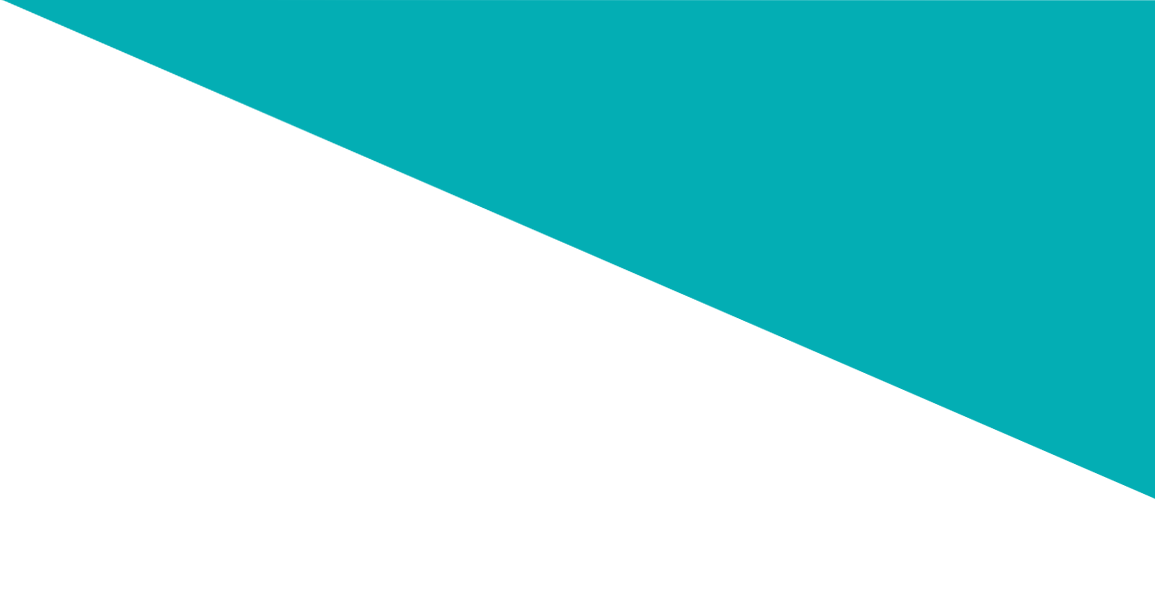
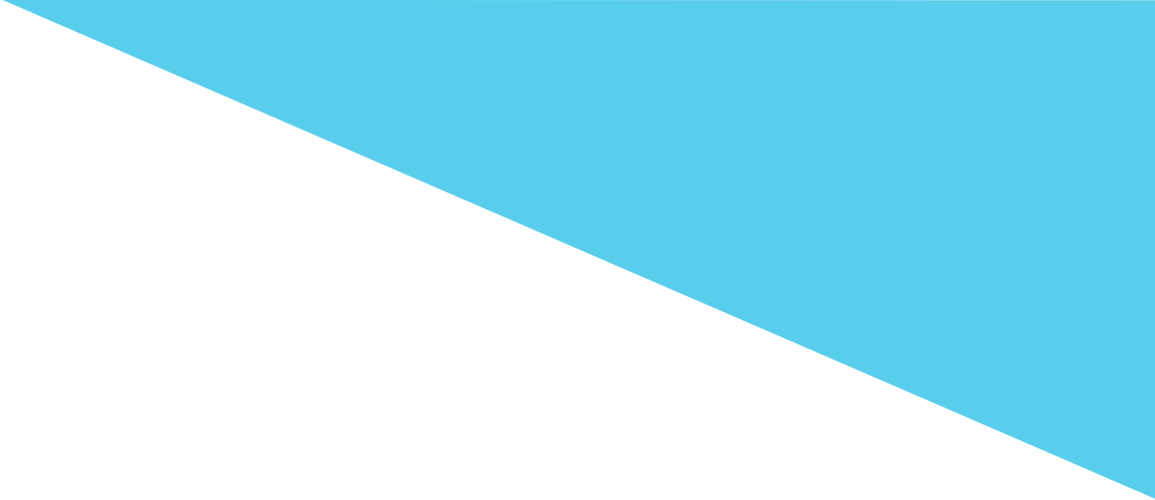
Change kv section according to the design

diff --git a/src/sass/style.scss b/src/sass/style.scss
@@ -1,8 +1,9 @@
 @charset "UTF-8";
 
 $regular: 'Roboto', sans-serif;
-$green: #03aeb4;
-
+$darkBlue: #2a9fc1;
+$lightBlue: #2eb7db;
+$veryDarkBlue: #002c4d;
 
 html,
 body {
@@ -70,24 +71,28 @@ body {
     }
     &__content {
       width: 100%;
-      padding: 80px 40px 0;
+      padding: 20px 40px 0;
       opacity: 0;
       animation: slideright 0.8s ease forwards;
       animation-delay: 0.9s;
     }
     &__logo {
       width: 160px;
+      padding-bottom: 20px;
     }
     &__title {
       @include text;
-      color: $green;
+      color: $darkBlue;
       font-size: 30px;
       font-weight: 700;
       padding-top: 30px;
+      & span {
+        color: $veryDarkBlue;
+      }
     }
     &__subtitle {
       @include text;
-      color: $green;
+      color: $darkBlue;
       font-size: 18px;
       font-weight: 400;
       padding: 30px 0;
@@ -132,7 +137,7 @@ body {
         padding-top: 100px;
       }
       &--right {
-        background-color: $green;
+        background-color: $darkBlue;
         padding-top: 100px;
       }
       &--image {
@@ -185,7 +190,7 @@ body {
       text-align: center;
       overflow: hidden;
       &--left {
-        background-color: $green;
+        background-color: $darkBlue;
         padding-top: 100px;
       }
       &--right {
@@ -194,7 +199,7 @@ body {
         padding-top: 100px;
       }
       &--image {
-        background-color: $green;
+        background-color: $darkBlue;
         padding: 0;
       }
     }
@@ -292,7 +297,7 @@ body {
       @include text;
       padding-left: 80px;
       padding-bottom: 5px;
-      border-bottom: solid 3px $green;
+      border-bottom: solid 3px $darkBlue;
       font-weight: 500;
     }
     &__under {
@@ -338,7 +343,7 @@ body {
       position: absolute;
       top: -40px;
       left: 20px;
-      color: $green;
+      color: $darkBlue;
       font-size: 150px;
       font-weight: 700;
     }
@@ -385,7 +390,7 @@ body {
         bottom: 0;
         right: 0;
         z-index: -1;
-        background-color: $green;
+        background-color: $darkBlue;
         border-radius: 8px;
         transition: transform 0.3s ease-in-out;
         transform: scaleX(0);
@@ -423,6 +428,9 @@ body {
   .es-kv {
     &__wrapper {
       flex-wrap: nowrap;
+    }
+    &__logo {
+      padding-bottom: 60px !important;
     }
     &__content {
       width: 50% !important;

diff --git a/src/index.html b/src/index.html
@@ -15,10 +15,9 @@
         <div class="es-kv__wrapper">
           <div class="es-kv__content">
             <img src="./images/logo.png" alt="" class="es-kv__logo">
-            <h2 class="es-kv__title">Odbudowujące<br>Serum z Retinolem</h2>
-            <p class="es-kv__text">Dla Każdego Typu Skóry, Także Wrażliwej</p>
-            <p class="es-kv__subtitle">Delikatna <strong>formuła z retinolem</strong><br class="es-desktop-break"> wyrównuje koloryt skóry i&nbsp;redukuje<br class="es-desktop-break"> widoczność porów*</p>
-            <p class="es-kv__text--small">*Ocena konsumencka</p>
+            <h2 class="es-kv__title"><span>SA</span> Wygładzający<br>Żel do Mycia</h2>
+            <p class="es-kv__text">Dla Skóry Szorstkiej,<br class="es-desktop-break"> z Grudkami, Suchej</p>
+            <p class="es-kv__subtitle">Skutecznie złuszcza,<br class="es-desktop-break">zmiękcza i wygładza skórę</p>
           </div>
           <div class="es-kv__packshot">
             <img src="./images//packshot.png" alt="Opakowanie zelu CeraVe" class="es-kv__image">
